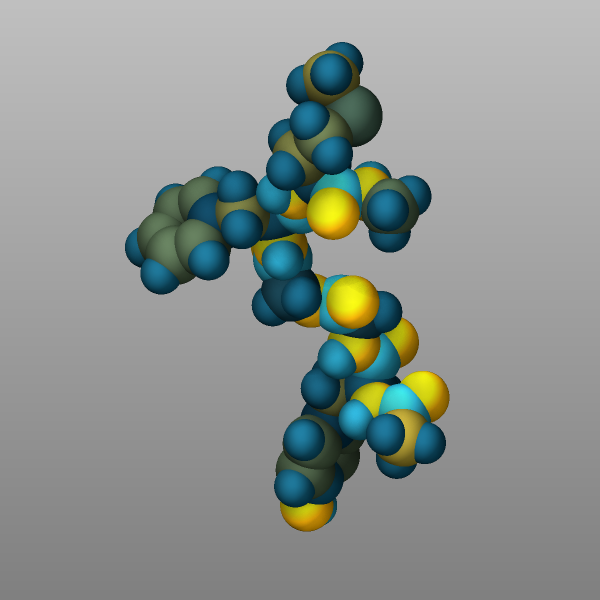
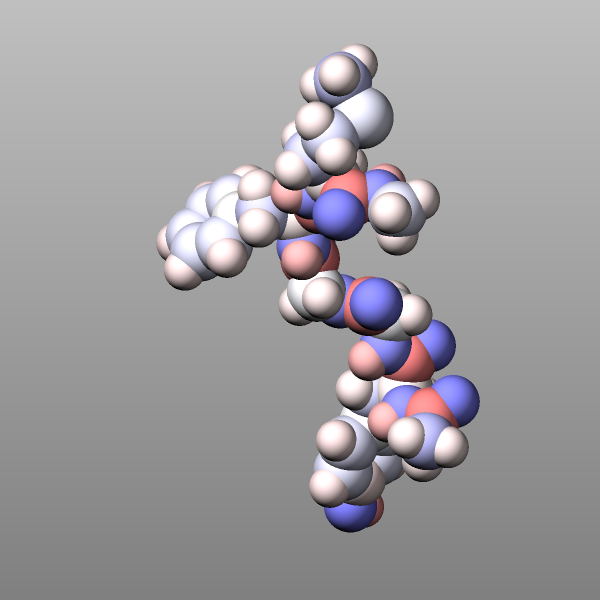
use a simpler, more representative example for the continuous color map

Changed region(s): [[0.21, 0.06, 0.81, 0.9]]

diff --git a/doc/src/Howto_viz.rst b/doc/src/Howto_viz.rst
@@ -149,14 +149,14 @@ of the ``peptide`` example bundled with LAMMPS this would be:
 Finally, atoms can be colored by the value of a per-atom property using
 a color map.  There are several variants of color maps.  Here is a
 simple example coloring the atoms in the ``peptide`` example by their
-charge with a continuous color map and also with a custom set of colors:
+charge with a continuous color map where white is neutral, red positive,
+blue negative, and the color intensity corresponds to the magnitude of
+the charge:
 
 .. code-block:: LAMMPS
 
    dump viz peptide image 1000 image-*.png q type size 600 600 zoom 2.0
-   dump_modify viz color cmap1 0.557 0.792 0.902 color cmap2 0.129 0.620 0.737 &
-       color cmap3 0.008 0.188 0.278 color cmap4 1.000 0.718 0.012 color cmap5 0.984 0.522 0.0 &
-       amap -1.0 1.0 ca 0 5 min cmap5 -0.5 cmap4 0.0 cmap3 0.5 cmap2 max cmap1
+   dump_modify amap -1.0 1.0 ca 0 3 min blue 0.0 white max red
 
 
 .. |colors1| image:: img/colors-default.png
@@ -175,7 +175,7 @@ charge with a continuous color map and also with a custom set of colors:
    <center>(Different colorization styles. Left to right: by default
    type map, by custom type map, by element, and by charge. Click to see
    the full-size images)</center>
-       
+
 --------------------
 
 Transparency